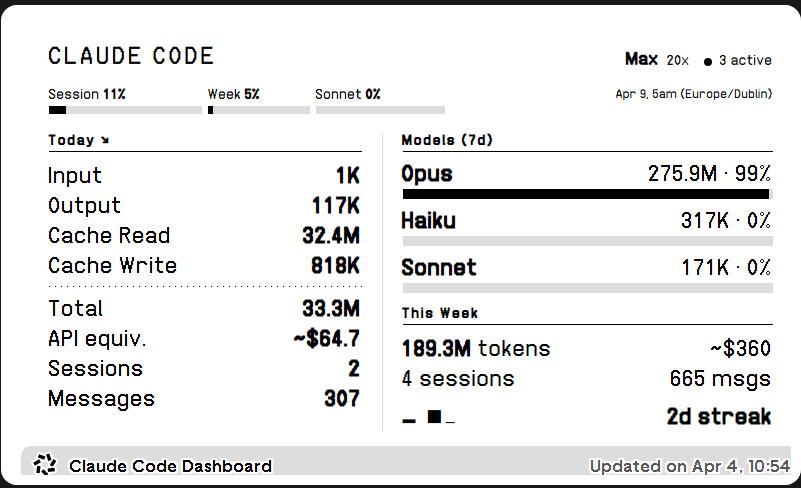
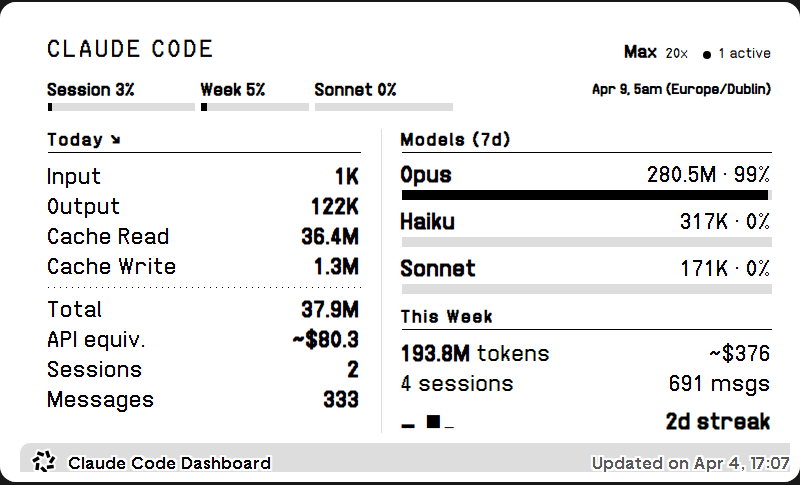
Add usage limit scraping and refine dashboard layout
- Scrape session/weekly/sonnet usage % via PTY (pywinpty/pexpect)
- Add usage progress bars with reset time below header
- Increase section header fonts (Today/Models/This Week) to 20px
- Usage limit labels at 20px for e-ink legibility
- Single table layout for aligned left column values
- Right-align all numeric values
- Local time with DST for timestamps
- Add --test and --no-scrape CLI flags
- Update README with usage scraping docs and comparison table
- Add dashboard screenshot

diff --git a/templates/full.html b/templates/full.html
@@ -1,6 +1,6 @@
 <div class="screen">
   <div class="view view--full">
-    <div class="layout layout--col layout--top" style="padding:16px 28px;">
+    <div class="layout layout--col layout--top" style="padding:12px 28px;">
 
       <!-- ── Header ─────────────────────────────────── -->
       <div style="display:flex; justify-content:space-between; align-items:baseline; width:100%; padding-bottom:4px;">
@@ -18,10 +18,10 @@
       {% if u_session != "—" %}
       <table style="width:100%; border-collapse:collapse; margin-bottom:2px;">
         <tr>
-          <td class="title" style="font-size:16px; padding:2px 0;">Session <b>{{ u_session }}%</b></td>
-          <td class="title" style="font-size:16px; padding:2px 0;">Week <b>{{ u_week }}%</b></td>
-          <td class="title" style="font-size:16px; padding:2px 0;">Sonnet <b>{{ u_sonnet }}%</b></td>
-          <td class="title" style="font-size:14px; padding:2px 0; text-align:right;">{{ u_reset }}</td>
+          <td class="title" style="font-size:20px; padding:2px 0;"><b>Session {{ u_session }}%</b></td>
+          <td class="title" style="font-size:20px; padding:2px 0;"><b>Week {{ u_week }}%</b></td>
+          <td class="title" style="font-size:20px; padding:2px 0;"><b>Sonnet {{ u_sonnet }}%</b></td>
+          <td class="title" style="font-size:16px; padding:2px 0; text-align:right;"><b>{{ u_reset }}</b></td>
         </tr>
         <tr>
           <td style="padding:2px 6px 2px 0;"><div style="height:8px; background:#ddd; width:100%;"><div style="height:100%; background:#000; width:{{ u_session }}%;"></div></div></td>
@@ -37,7 +37,7 @@
         <tr>
           <td style="vertical-align:top; width:46%; padding-right:20px;">
 
-            <p class="title" style="font-size:16px; letter-spacing:1.5px; margin:0 0 8px 0; border-bottom:1px solid #000; padding-bottom:3px;">
+            <p class="title" style="font-size:20px; letter-spacing:1.5px; margin:0 0 8px 0; border-bottom:1px solid #000; padding-bottom:3px;">
               <b>Today {% if trend == "up" %}&#8599;{% elsif trend == "down" %}&#8600;{% elsif trend == "flat" %}&#8594;{% endif %}</b>
             </p>
 
@@ -80,7 +80,7 @@
           </td>
           <td style="vertical-align:top; width:54%; padding-left:20px; border-left:1px solid #ddd;">
 
-            <p class="title" style="font-size:16px; letter-spacing:1.5px; margin:0 0 8px 0; border-bottom:1px solid #000; padding-bottom:3px;">
+            <p class="title" style="font-size:20px; letter-spacing:1.5px; margin:0 0 8px 0; border-bottom:1px solid #000; padding-bottom:3px;">
               <b>Models (7d)</b>
             </p>
 
@@ -120,7 +120,7 @@
             </div>
             {% endif %}
 
-            <p class="title" style="font-size:16px; letter-spacing:1.5px; margin:12px 0 8px 0; border-bottom:1px solid #000; padding-bottom:3px;">
+            <p class="title" style="font-size:20px; letter-spacing:1.5px; margin:12px 0 8px 0; border-bottom:1px solid #000; padding-bottom:3px;">
               <b>This Week</b>
             </p>
 
